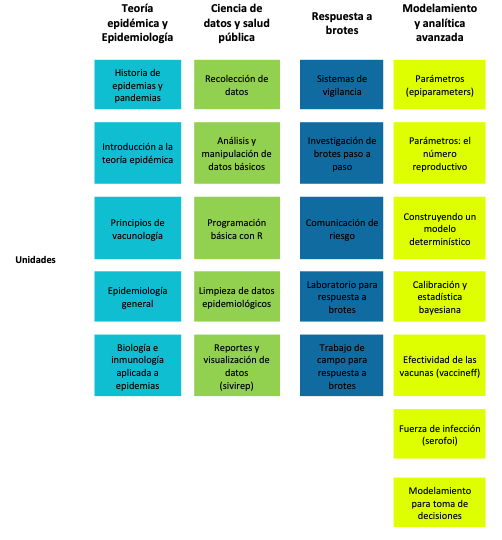
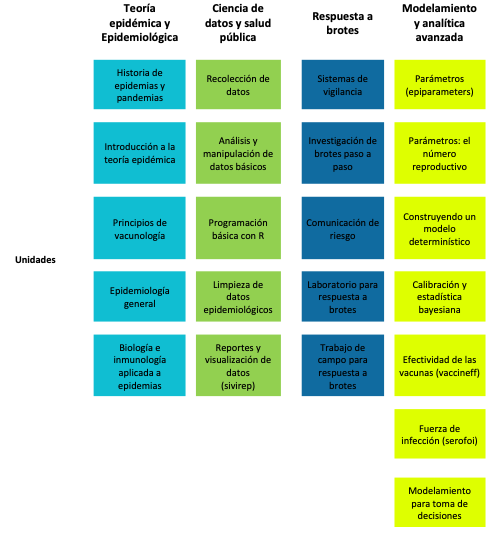
Cambio imagen

diff --git a/readme.md b/readme.md
@@ -75,27 +75,31 @@ Para la construcción de la estrategia de entrenamiento e-learning se
 tienen contempladas unidades cortas de aprendizaje agrupadas en cuatro
 módulos principales:
 
-<table style="width:92%;">
+<table style="width:93%;">
 <colgroup>
 <col style="width: 20%" />
 <col style="width: 70%" />
+<col style="width: 1%" />
 </colgroup>
 <tbody>
 <tr class="odd">
 <td><div class="line-block">1</div></td>
 <td>Módulo de teoría epidémica y epidemiológica</td>
+<td></td>
 </tr>
 <tr class="even">
 <td><div class="line-block">2</div></td>
-<td>Módulo de ciencia de datos y salud pública</td>
+<td colspan="2">Módulo de ciencia de datos en salud pública</td>
 </tr>
 <tr class="odd">
 <td><div class="line-block">3</div></td>
 <td>Módulo de respuesta a brotes</td>
+<td></td>
 </tr>
 <tr class="even">
 <td><div class="line-block">4</div></td>
 <td>Módulo de modelamiento y analítica avanzada</td>
+<td></td>
 </tr>
 </tbody>
 </table>
@@ -121,20 +125,20 @@ elementos de sistemas de vigilancia epidemiológica, investigación de
 brotes paso a paso, comunicación efectiva del riesgo, el papel de las
 actividades en campo y laboratorio para la respuesta a brotes.
 
-**Módulo de modelamiento y analítica**: Presenta conceptos teóricos,
-ejercicios prácticos y estudios de caso, para la construcción de modelos
-matemáticos de propagación de enfermedades infecciosas, exploración de
-parámetros y aplicaciones estadísticas. Este módulo permite desarrollar
-habilidades para aplicar técnicas analíticas avanzadas en la
-interpretación de datos epidemiológicos y la toma de decisiones
-informadas en situaciones de salud pública.
+**Módulo de modelamiento y analítica avanzada**: Presenta conceptos
+teóricos, ejercicios prácticos y estudios de caso, para la construcción
+de modelos matemáticos de propagación de enfermedades infecciosas,
+exploración de parámetros y aplicaciones estadísticas. Este módulo
+permite desarrollar habilidades para aplicar técnicas analíticas
+avanzadas en la interpretación de datos epidemiológicos y la toma de
+decisiones informadas en situaciones de salud pública.
 
 Cada uno de estos módulos cuenta con varias unidades. Cada unidad tiene
 un promedio de duración de trabajo entre 3-5 horas por parte del
 estudiante, dependiendo de la ruta de ingreso y conocimientos previos
 (ver figura 1)
 
-<img src="img/unidades.png" width="744" />
+<img src="img/unidades.png" width="300" />
 
 ## Fases del epi-training kit
 
